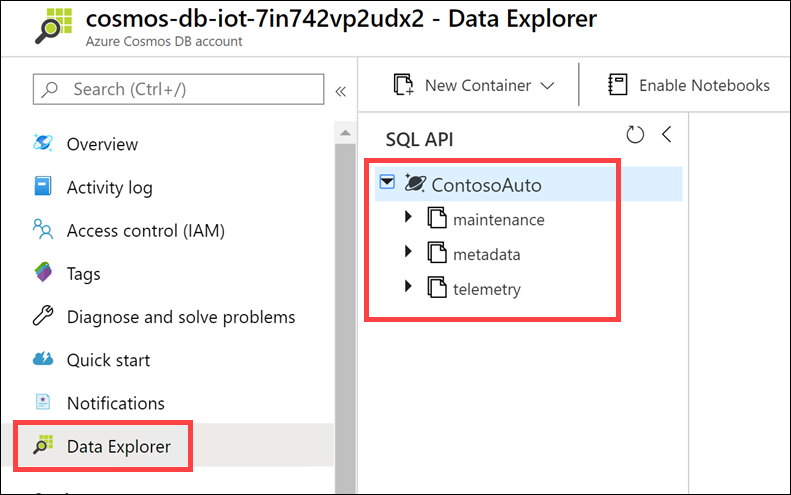
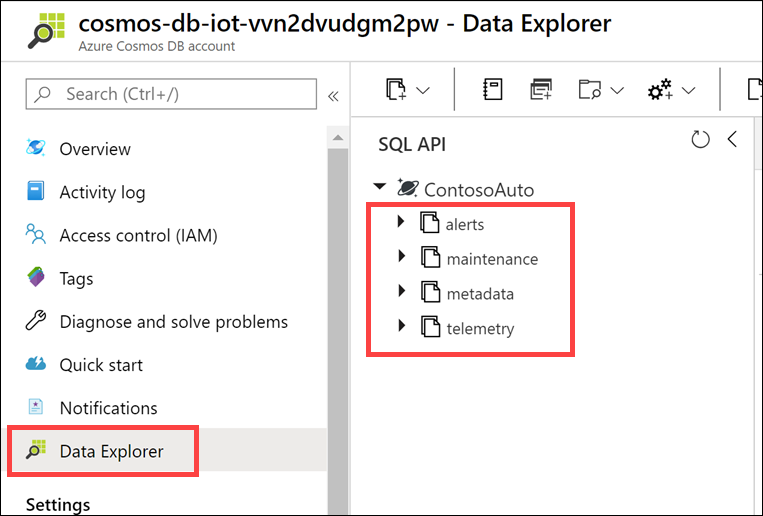
Updated Cosmos DB container information

diff --git a/Quickstart.md b/Quickstart.md
@@ -192,11 +192,12 @@ In this exercise, you will configure your environment so you can start sending a
 
 #### Deployment information: Cosmos DB
 
-Among the Azure resources the deployment script created, is a Cosmos DB database and three SQL-based containers:
+Among the Azure resources the deployment script created, is a Cosmos DB database and four SQL-based containers:
 
 - **telemetry**: Used for ingesting hot vehicle telemetry data with a 90-day lifespan (TTL).
 - **metadata**: Stores vehicle, consignment, package, trip, and aggregate event data.
 - **maintenance**: The batch battery failure predictions are stored here for reporting purposes.
+- **alerts**: Stores alert settings that control the types of alerts and frequency in which they are sent. Also stores a history document that keeps track of when summary alerts are sent.
 
 These containers are used for the demo solution used as a reference for this accelerator. In this document, as well as the [companion accelerator guide](Microsoft_Cosmos_DB_IoT_Solution_Accelerator.docx), we provide detailed information about design decisions and database configuration that you can use to adapt the solution to your scenario.
 
@@ -216,13 +217,13 @@ To view the Cosmos DB containers, perform the following steps:
 
    ![Data Explorer is selected and the ContosoAuto database is expanded.](media/cosmos-containers.png "Data Explorer")
 
-5. Expand the **maintenance** container in the Cosmos DB Data Explorer, then select **Scale & Settings**.
+5. Expand the **alerts** container in the Cosmos DB Data Explorer, then select **Scale & Settings**.
 
     ![The Scale & Settings blade for the maintenance container is displayed.](media/cosmos-scale-settings-maintenance.png "Scale & Settings")
 
-    The **Throughput** value for this container is set to **400** RU/s. This is the lowest setting for a container, which is sufficient for the throughput requirements for maintenance data due to low read and write usage.
+    The **Throughput** value for this container is set to **400** RU/s. This is the lowest setting for a container, which is sufficient for the throughput requirements for alert management-related data due to low read and write usage.
 
-    The **Partition Key** is set to **/vin** (VIN means *vehicle identification number*) so we can group maintenance data by vehicle, and because the `vin` field is used in most queries.
+    The **Partition Key** is set to **/id**. Having the partition key and ID share the same value allows us to perform rapid, low-cost point lookups of data, when coupled with the `ReadItemAsync` method on the `Container` object when using the [Cosmos DB SDK](https://github.com/Azure/azure-cosmos-dotnet-v3).
 
     The **Indexing Policy** is set to the default value, which automatically indexes all fields for each document stored in the container. This is because all paths are included (remember, since we are storing JSON documents, we use paths to identify the property since they can exist within child collections in the document) by setting the value of `includedPaths` to `"path": "/*"`, and the only excluded path is the internal `_etag` property, which is used for versioning the documents. The default Indexing Policy is:
 
@@ -243,7 +244,15 @@ To view the Cosmos DB containers, perform the following steps:
     }
     ```
 
-6. Expand the **metadata** container in the Cosmos DB Data Explorer, then select **Scale & Settings**.
+6. Expand the **maintenance** container in the Cosmos DB Data Explorer, then select **Scale & Settings**.
+
+    The **Throughput** value for this container is set to **400** RU/s, which is sufficient for the throughput requirements for maintenance data due to low read and write usage.
+
+    The **Partition Key** is set to **/vin** (VIN means *vehicle identification number*) so we can group maintenance data by vehicle, and because the `vin` field is used in most queries.
+
+    The **Indexing Policy** is set to the default value.
+
+7. Expand the **metadata** container in the Cosmos DB Data Explorer, then select **Scale & Settings**.
 
     The **Throughput** value for this container is set to **50000** RU/s. We are initially setting the throughput on this container to this high number of RU/s because the data generator will perform a bulk insert of metadata the first time it runs. After inserting the data, it will programmatically reduce the throughput to **15000**.
 
@@ -251,7 +260,7 @@ To view the Cosmos DB containers, perform the following steps:
 
     The **Indexing Policy** is set to the default value.
 
-7. Expand the **telemetry** container in the Cosmos DB Data Explorer, then select **Scale & Settings**.
+8. Expand the **telemetry** container in the Cosmos DB Data Explorer, then select **Scale & Settings**.
 
     The **Throughput** value for this container is set to **15000** RU/s, which is optimal for handling the rate of vehicle telemetry data written to this container.
 
@@ -307,7 +316,7 @@ Choosing an appropriate partition key for Cosmos DB is a critical step for ensur
 
 #### About the Cosmos DB indexing policies
 
-The default indexing policy for newly created containers indexes every property of every item, enforcing range indexes for any string or number, and spatial indexes for any GeoJSON object of type Point. This allows you to get high query performance without having to think about indexing and index management upfront. Since the `metadata` and `maintenance` containers have more read-heavy workloads than `telemetry`, it makes sense to use the default indexing policy where query performance is optimized. Since we need faster writes for `telemetry`, we exclude unused paths. The use of indexing paths can offer improved write performance and lower index storage for scenarios in which the query patterns are known beforehand, as indexing costs are directly correlated to the number of unique paths indexed.
+The default indexing policy for newly created containers indexes every property of every item, enforcing range indexes for any string or number, and spatial indexes for any GeoJSON object of type Point. This allows you to get high query performance without having to think about indexing and index management upfront. Since the `alerts`, `metadata`, and `maintenance` containers have more read-heavy workloads than `telemetry`, it makes sense to use the default indexing policy where query performance is optimized. Since we need faster writes for `telemetry`, we exclude unused paths. The use of indexing paths can offer improved write performance and lower index storage for scenarios in which the query patterns are known beforehand, as indexing costs are directly correlated to the number of unique paths indexed.
 
 The indexing mode for all three containers is set to **Consistent**. This means the index is updated synchronously as items are added, updated, or deleted, enforcing the consistency level configured for the account for read queries. The other indexing mode one could choose is None, which disables indexing on the container. Usually this mode is used when your container acts as a pure key-value store, and you do not need indexes for any of the other properties. It is possible to dynamically change the consistency mode prior to executing bulk operations, then changing the mode back to Consistent afterwards, if the potential performance increase warrants the temporary change.
 
